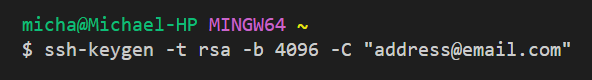
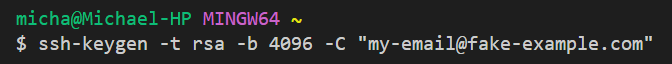
feat(SshSetup): Allow switching keytype

Changed region(s): [[0.0, 0.5, 0.973, 0.8438], [0.0, 0.1562, 0.5473, 0.4688], [0.0304, 0.1562, 0.0608, 0.1875]]

diff --git a/src/components/SSHKeySetup/SSHKeySetup.js b/src/components/SSHKeySetup/SSHKeySetup.js
@@ -1,11 +1,24 @@
+import { useState } from 'react';
 import { SSHKeySetupStyled } from './SSHKeySetupStyles';
 import cdToRoot from './images/cd-to-root.png';
 import sshEnterFile from './images/ssh-enter-file.png';
-import sshKeygenEd25519 from './images/ssh-keygen-ed25519.png'
+import sshEnterFileRsa from './images/ssh-enter-file-rsa.png';
+import sshKeygenEd25519 from './images/ssh-keygen-ed25519.png';
+import sshKeygenRsa from './images/ssh-keygen-rsa.png';
+import sshFileSaved from './images/ssh-file-saved.png';
+import sshFileSavedRsa from './images/ssh-file-saved-rsa.png';
 import terminalChooseGitBash from './images/terminal-choose-Git-Bash.png';
 
 
 const SSHKeySetup = () => {
+  const [keytype, setkeytype] = useState('ed25519');
+    const toggleKeytype = () => {
+      if(keytype === 'rsa') {
+        setkeytype('ed25519');
+      } else {
+        setkeytype('rsa');
+      }
+    }
   return (
     <SSHKeySetupStyled>
       <h1>Setting up an SSH key</h1>
@@ -15,15 +28,23 @@ const SSHKeySetup = () => {
       <p>Repeat <code>cd ..</code> until you reach the root folder. (Hint: in the terminal, hitting the up arrow will re-show the previous thing you typed, so you won't have to keep re-typing "cd .." ).</p>
       <img src={cdToRoot} alt='repeat typing "cd .." until ~ is directory' />
       <p>To set up your key, you will need to remember the email address that you used to sign up for GitHub. In the terminal, type <code>ssh-keygen -t ed25519 -C</code> and your email address in quotes.</p>
-      <img src={sshKeygenEd25519} alt='ssh-keygen -t ed25519 -C "address@email.com"' />
-      <p>If you get an error, use <code>ssh-keygen -t rsa -b 4096 -C</code> with your email address. (GitHub recommends using Ed25519 for higher security, but Rsa will work on older computers.)</p>
+      <img src={sshKeygenEd25519} alt='ssh-keygen -t ed25519 -C "my-email@fake-example.com"' />
+      <p>If you get an error because your computer does not accept ed25519 as a key type, click this checkbox for alternate instructions:
+        <input type="checkbox" name="copy" onChange={toggleKeytype} />
+      </p>
+      {keytype === 'rsa' && (<>
+        <p>Use <code>ssh-keygen -t rsa -b 4096 -C</code> with your email address in quotes. (GitHub recommends using Ed25519 for higher security, but Rsa will work on older computers.)</p>
+        <img src={sshKeygenRsa} alt='ssh-keygen -t rsa -b 4096 -C "my-email@fake-example.com"' />
+        </>)}
       <p>When it asks you to enter the file, just hit the enter key.</p>
-      <img src={sshEnterFile} alt='' />
-      <p>Type in a password. Note that the password you type will be invisible, and the cursor does not move, so it looks like nothing is happening until you hit the enter key! But don't panic, just type a password and hit enter.</p>
+      {keytype === 'rsa' ? (<img src={sshEnterFileRsa} alt='' />) : (<img src={sshEnterFile} alt='' />)}
+      <p>Type in your password. <span className='bold'>Note that the password you type will be invisible, and the cursor does not move, so it looks like nothing is happening until you hit the enter key!</span> But don't panic, just type your password and hit enter.</p>
       <p>Type the same password again. The computer will save two files with the SSH key information.</p>
+      {keytype === 'rsa' ? (<img src={sshFileSavedRsa} alt='' />) : (<img src={sshFileSaved} alt='' />)}
+      <p>(Your key's fingerprint and randomart will be different.)</p>
       <p>Once the computer shows the information, type <code>eval $(ssh-agent -s)</code> to start the SSH agent.</p>
-      <p>Add the key <code>ssh-add ~/.ssh/id_ed25519</code> (or <code>ssh-add ~/.ssh/id_rsa</code> if you used Rsa)</p>
-      <p>Now copy the public key to your clipboard. On Windows, type <code>clip &lt; ~/.ssh/id_ed25519.pub</code> On a Mac, use <code>pbcopy &lt; ~/.ssh/id_ed25519.pub</code></p>
+      <p>Add the key <code>ssh-add ~/.ssh/id_{keytype}</code></p>
+      <p>Now copy the public key to your clipboard. On Windows, type <code>clip &lt; ~/.ssh/id_{keytype}.pub</code> On a Mac, use <code>pbcopy &lt; ~/.ssh/id_{keytype}.pub</code></p>
       <p>While keeping VSCode open (in case you need to re-copy the key), log into GitHub. Click on your profile in the upper right corner of the page. Choose "Settings" in the menu that drops down.</p>
       <p>In the list on the left side, click "SSH and GPG keys"</p>
       <p>Click "New SSH key" (in the upper right of the SSH Key section.)</p>

diff --git a/src/components/SSHKeySetup/SSHKeySetupStyles.js b/src/components/SSHKeySetup/SSHKeySetupStyles.js
@@ -17,4 +17,17 @@ export const SSHKeySetupStyled = styled.section`
   code {
     background-color: var(--primary-light-pink);
   }
+
+  img {
+    width: auto;
+  }
+  @media screen and (max-width: 800px) {
+    img {
+      width: 100vw;
+    }
+  }
+
+  .bold {
+    font-weight: bold;
+  }
 `;
